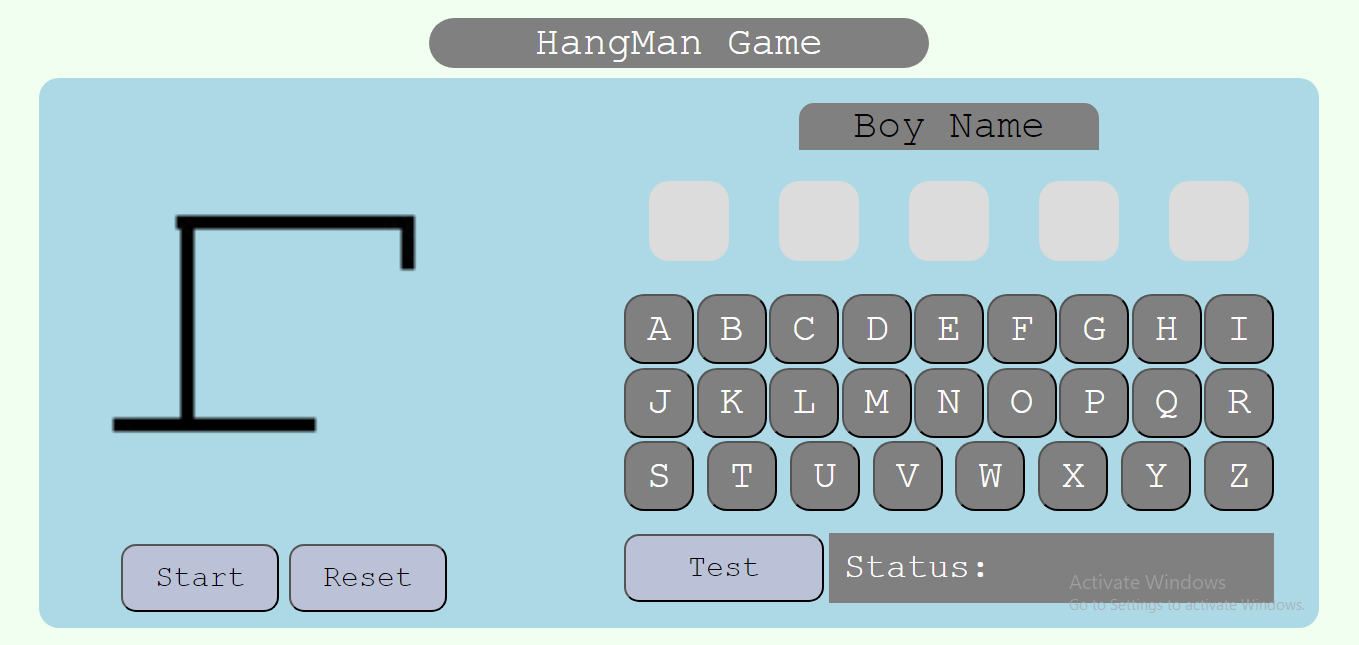
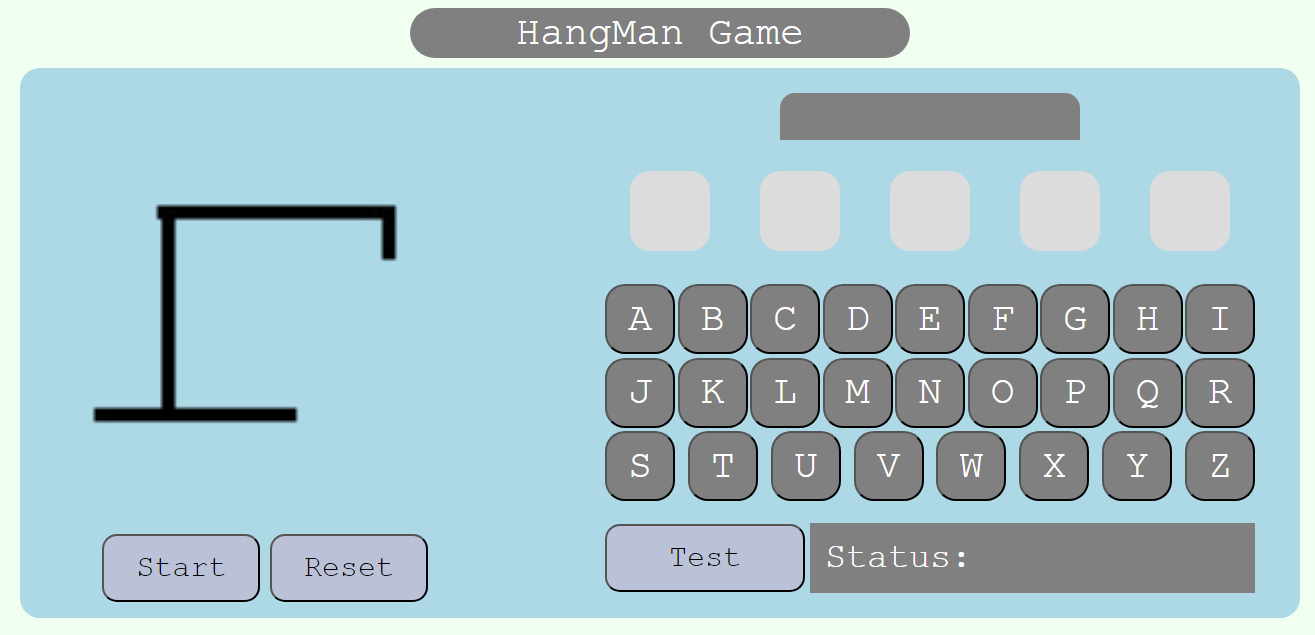
4th main version

diff --git a/js/app.js b/js/app.js
@@ -1,23 +1,24 @@
 /*-------------------------------- Constants --------------------------------*/
 
 /*-------------------------------- Variables --------------------------------*/
-let keyy = [];
+// let keyy = [];
 let Rword = [
      {name:'Ahmed', hint:'Boy Name'},
     //  {name:'Ayman', hint:'Boy Name'},
     //  {name:'Hasan', hint:'Boy Name'},
     //  {name:'Denis', hint:'Boy Name'},
-    //  {name:'Abbas', hint:'Boy Name'},
+    //  {name:'Baqer', hint:'Boy Name'},
     //  {name:'Salma', hint:'Girl Name'},
     //  {name:'Nawal', hint:'Girl Name'},
-     {name:'Layla', hint:'Girl Name'}
+    //  {name:'Layla', hint:'Girl Name'},
+    //  {name:'Trout', hint:'Fish Name'},
+     {name:'Shark', hint:'Fish Name'},
 ];
 
 /*------------------------ Cached Element References ------------------------*/
 const hang = document.getElementById('hang');
 const word = document.querySelector('.word');
 const keyword = document.querySelector('.keyword');
-// const keywordd = document.getElementById('.keyword');
 const button = document.querySelectorAll('.letter');
 const win = document.querySelector('.win');
 const testword = document.querySelector('.testword');
@@ -26,99 +27,89 @@ const reset = document.querySelector('.reset');
 
 /*----------------------------- Event Listeners -----------------------------*/
 let counter = 0;
-
+let RandomW = Rword[Math.floor(Math.random()*Rword.length)];
+const idx = Rword.indexOf(RandomW);
 
 button.forEach((element) => {
     element.addEventListener('click', () => {
-        const RandomW = Rword[Math.floor(Math.random()*Rword.length)];
-        const idx = Rword.indexOf(RandomW);
         const btn = element.innerText;
-        if(btn.includes(Rword[idx].name)){
-                keyword.textContent += btn;
-                // testword.addEventListener('click', () => {
-                //     const typo = keyword.textContent;
-                //     if(typo.toLowerCase() === Rword[idx].name.toLowerCase()){
-                //          win.textContent = "Status : Win ";
-                //          keyword.textContent = '';
-                //     }
-                // });
-
-        } else if(btn != btn.includes(Rword[idx].name) && counter == 0){
-                hang.src = "./img/gibbet-head.png";
-                counter ++
-        } else if(btn != btn.includes(Rword[idx].name) && counter == 1){
-            hang.src = "./img/gibbet-head-skelleton.png";
-            counter ++
-        } else if(btn != btn.includes(Rword[idx].name) && counter == 2){
-            hang.src = "./img/gibbet-head-skelleton-oneH.png";
-            counter ++
-        } else if(btn != btn.includes(Rword[idx].name) && counter == 3){
-            hang.src = "./img/gibbet-head-skelleton-twoH.png";
-            counter ++
-        } else if(btn != btn.includes(Rword[idx].name) && counter == 4){
-            hang.src = "./img/gibbet-head-skelleton-twoH-oneL.png";
-            counter ++
-        } else if(btn != btn.includes(Rword[idx].name) && counter == 5){
-            hang.src = "./img/gibbet-head-skelleton-twoH-twoL.png";
-            counter ++
-        } else if(btn != btn.includes(Rword[idx].name) && counter == 6){
-            win.textContent = "Status : Game Over ";
-        }
+        // if(btn.includs(RandomW))
+        keyword.textContent += btn;
+    // } else if(btn != btn.includes(RandomW) && counter == 0){
+    //             hang.src = "./img/gibbet-head.png";
+    //             counter ++
+    //     } else if(btn != btn.includes(RandomW)  && counter == 1){
+    //         hang.src = "./img/gibbet-head-skelleton.png";
+    //         counter ++
+    //     } else if(btn != btn.includes(RandomW)  && counter == 2){
+    //         hang.src = "./img/gibbet-head-skelleton-oneH.png";
+    //         counter ++
+    //     } else if(btn != btn.includes(RandomW)  && counter == 3){
+    //         hang.src = "./img/gibbet-head-skelleton-twoH.png";
+    //         counter ++
+    //     } else if(btn != btn.includes(RandomW)  && counter == 4){
+    //         hang.src = "./img/gibbet-head-skelleton-twoH-oneL.png";
+    //         counter ++
+    //     } else if(btn != btn.includes(RandomW)  && counter == 5){
+    //         hang.src = "./img/gibbet-head-skelleton-twoH-twoL.png";
+    //         counter ++
+    //     } else if(btn != btn.includes(RandomW)  && counter == 6){
+    //         win.textContent = "Status : Game Over ";
+    //     }
     });
 });
-
+// console.log(keyword.textContent.toLowerCase() != keyy)
 testword.addEventListener('click', () => {
     const typo = keyword.textContent;
-    const RandomW = Rword[Math.floor(Math.random()*Rword.length)];
     const idx = Rword.indexOf(RandomW);
-    if(typo.toLowerCase() === Rword[idx].name.toLowerCase()){
+    console.log(RandomW)
+    if(typo.toLowerCase().includes(Rword[idx].name.toLowerCase())){
          win.textContent = "Status : Win ";
          keyword.textContent = '';
-    } else if (typo.toLowerCase() != Rword[idx].name.toLowerCase()){
-         win.textContent = "Status : Game Over ";
-         keyword.textContent = '';
+    } else if (!(typo.toLowerCase().includes(Rword[idx].name.toLowerCase())) && counter == 0){
          hang.src = "./img/gibbet-head.png";
-    } else {
-        win.textContent = "Status : Play";
-    }
+         counter ++
+    }  else if (!(typo.toLowerCase().includes(Rword[idx].name.toLowerCase())) && counter == 1){
+         hang.src = "./img/gibbet-head-skelleton.png";
+         counter ++
+    }  else if (!(typo.toLowerCase().includes(Rword[idx].name.toLowerCase())) && counter == 2){
+         hang.src = "./img/gibbet-head-skelleton-oneH.png";
+         counter ++
+    }  else if (!(typo.toLowerCase().includes(Rword[idx].name.toLowerCase())) && counter == 3){
+         hang.src = "./img/gibbet-head-skelleton-twoH.png";
+         counter ++
+    }  else if (!(typo.toLowerCase().includes(Rword[idx].name.toLowerCase())) && counter == 4){
+         hang.src = "./img/gibbet-head-skelleton-twoH-oneL.png";
+         counter ++
+    }  else if (!(typo.toLowerCase().includes(Rword[idx].name.toLowerCase())) && counter == 5){
+        hang.src = "./img/gibbet-head-skelleton-twoH-twoL.png";
+        win.textContent = "Status : Game Over ";
+        keyword.textContent = '';
+    }  
 })
 
 start.addEventListener('click', RandWord);
 
 reset.addEventListener('click', init);
 
-// keywordd.addEventListener('click', () => {
-//     const spliceWord = keyword.textContent.split('');
-//     console.log(spliceWord)
-// });
-
 /*-------------------------------- Functions --------------------------------*/
 
 function init (){
+    let RandomW = Rword[Math.floor(Math.random()*Rword.length)];
     keyword.textContent = '';
     win.innerText = "Status :"
-    const RandomW = Rword[Math.floor(Math.random()*Rword.length)];
-    word.textContent = `${RandomW.hint}`;
+    word.textContent = `${RandomW.hint} & first letter ${RandomW.name.slice(0,1)}`;
     hang.src = './img/gibbet.png';
     counter = 0;
 }
 
 function RandWord(){
+    let RandomW = Rword[Math.floor(Math.random()*Rword.length)];
     let StartSound = new Audio('./Audio/mixkit.wav')
     StartSound.play()
-    const RandomW = Rword[Math.floor(Math.random()*Rword.length)];
-    word.textContent = `${RandomW.hint}`;
+    word.textContent = `${RandomW.hint} & first letter ${RandomW.name.slice(0,1)}`;
     hang.src = './img/gibbet.png';
 }
-
-// function wordEntered (){
-//     const spliceWord = keyword.textContent.split('');
-    
-//         for(let i=0; i< keyy.length; i++){
-//             keyy[i] = spliceWord[i];
-//             console.log(keyy[i])
-//         }
-// }
 
 
 

diff --git a/css/style.css b/css/style.css
@@ -79,13 +79,14 @@ body{
     align-items: center;
 }
 .word{
-    width: 300px;
+    width: 500px;
     height: 60px;
     background-color: #808080;
     display: flex;
     justify-content: center;
     align-items: center;
-    font-size: 40px;
+    font-size: 30px;
+    font-weight: bold;
     border-top-left-radius: 15px;
     border-top-right-radius: 15px;
 }

diff --git a/README.md b/README.md
@@ -1,28 +1,32 @@
-# Project planning
+# HangMan Game
 
-### Game : HangMan
+## Date: 9/7/2024
 
-![alt text](./img/hangMan.png)
+### By: Ahmed Darwish
 
-### About
-Hangman is a classic word guessing game. The objective is to guess the letters that make up a secret word before the entire hangman diagram is drawn.
+#### [GitHub](https://github.com/AhmedAslw) | [LinkedIn](https://www.linkedin.com/in/ahmed-darwish-056b3a235/)
+***
+
+### ***Description***
+#### Hangman is a classic word guessing game. The objective is to guess the letters that make up a secret word before the entire hangman diagram is drawn.
+***
 
 ### User Story
-1. The game should select a random word from a predefined dictionary or word list.
-1. The game should display the word as a series of underscores, one for each letter in the word.
-1. The player should be able to guess letters by clicking on the letters of the alphabet provided.
-1. If the player guesses a correct letter, the letter should be displayed in the correct position(s) within the word.
-1. If the player guesses an incorrect letter, a part of the hangman diagram should be drawn.
-1. The game should keep track of the number of incorrect guesses, and the game should end when the entire hangman diagram is complete (indicating a loss for the player).
-1. If the player correctly guesses all the letters in the word before the hangman diagram is complete, the player should win the game.
-1. The game should provide a clear indication of the player's win or loss at the end of the game.
-1. The game should allow the player to start a new game after completing a round.
-1. The game should be responsive and work well on both desktop and mobile devices.
+1. The game should select a random word from a predefined word list.
+2. The game should display the word as a series of underscores, one for each letter in the word.
+3. The player should be able to guess letters by clicking on the letters of the alphabet provided.
+4. If the player guesses a correct letter, the letter should be displayed in the correct position(s) within the word.
+5. If the player guesses an incorrect letter, a part of the hangman diagram should be drawn.
+6. The game should keep track of the number of incorrect guesses, and the game should end when the entire hangman diagram is complete (indicating a loss for the player).
+7. If the player correctly guesses all the letters in the word before the hangman diagram is complete, the player should win the game.
+8. The game should provide a clear indication of the player's win or loss at the end of the game.
+9. The game should allow the player to start a new game after completing a round.
+10. The game should be responsive and work well on both desktop and mobile devices.
 
 ### Main Functionalities
 ```
 1. The game selects a random word and displays it as a series of underscores, one for each letter.
-2. The player clicks or taps on letters from the alphabet to guess the word.
+2. The player clicks on letters from the alphabet to guess the word.
 3. If the guessed letter is in the word, it is revealed in the correct position(s).
 4. If the guessed letter is not in the word, a part of the hangman diagram is drawn.
 5. The player continues guessing letters until they either:
@@ -36,13 +40,33 @@ Hangman is a classic word guessing game. The objective is to guess the letters t
 1 . Functions
 
 ```
-A . breakBrick()
-B . followBall()
-C . resetGame()
+A . init()     { //Initiation of the game ..reset game }
+B . RandWord() { //Start the game }
 ```
+2 . Listeners
 
-### Technologies Used
->HTML(Html Canvas), CSS, JAVASCRIPT
+```
+A . button     //Letters clicked
+B . testword   //Test button
+C . start      //Start the game
+D . reset      //Restart the game
+```
+***
+
+### ***Screenshots***
+
+##### Game before any action
+![](./img/hangMan.png)
+
+##### After clicking start
+![](./img/hangMan-start.png)
+
+##### Game over and man Hanged 
+![](./img/hangMan-gameover.png)
+
+##### After clicking start reset
+![](./img/hangMan-reset.png)
+***
 
 
 
